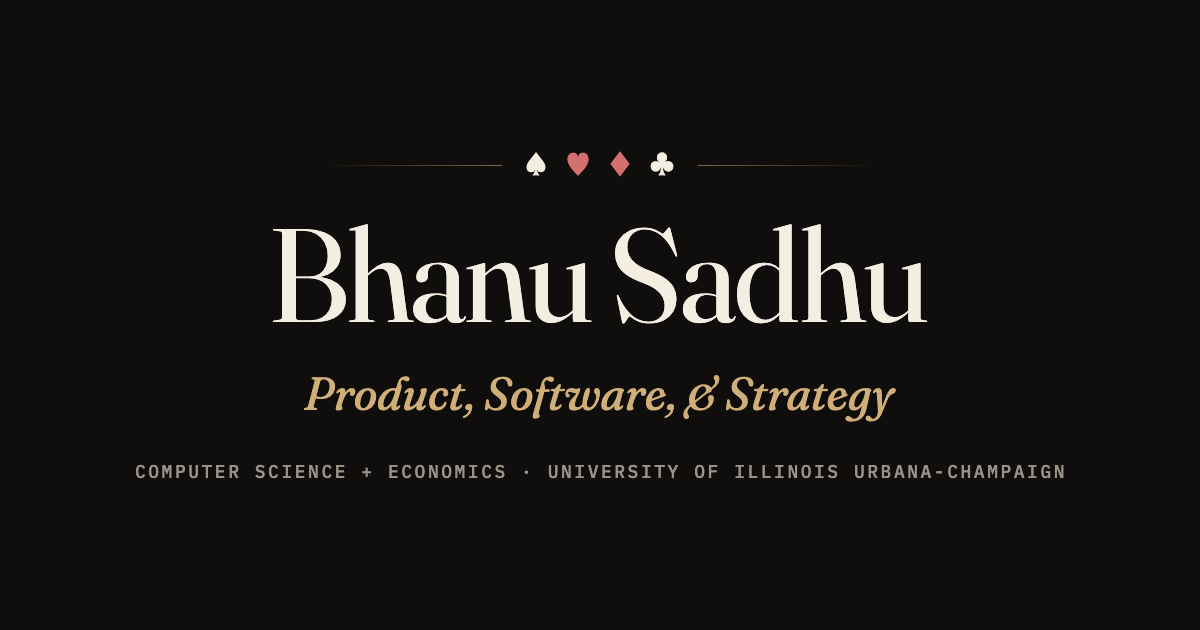
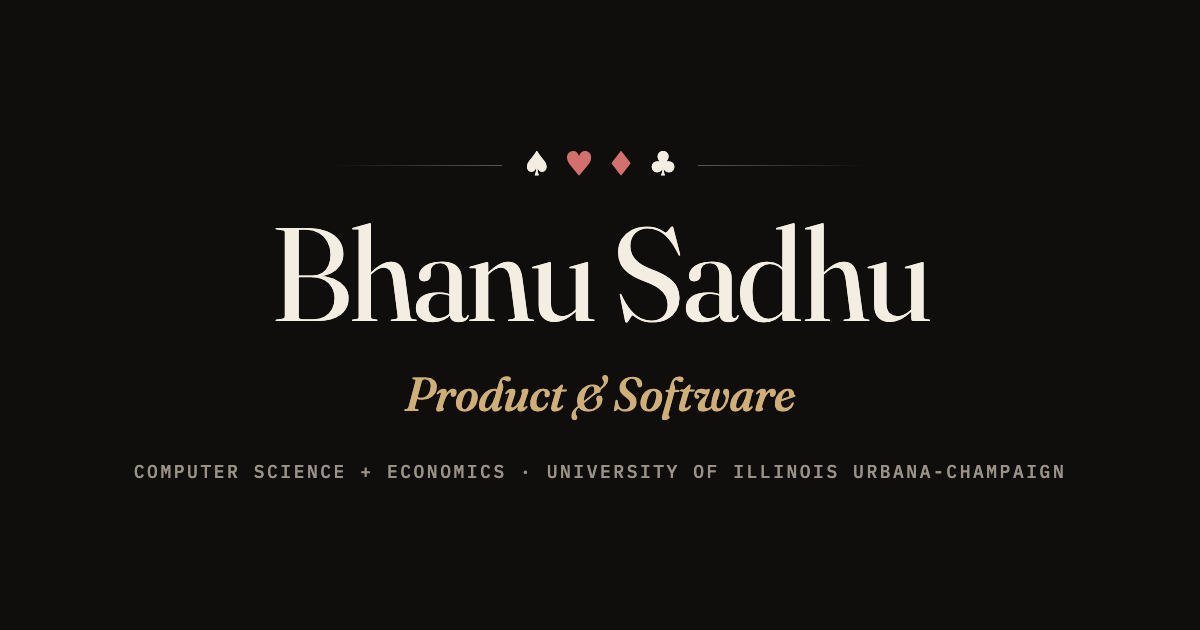
Recruit for Product & Software, equal weight; drop Strategy as a track
Tab title, social meta and preview image, hero seeking line (both words lit), contact sentence and lede, the spread's note, and the skills label. Real job titles are unchanged.

diff --git a/src/data/site.ts b/src/data/site.ts
@@ -1,14 +1,14 @@
-/** The short form, split so the hero's seeking line can mark Product as the lead. */
-const interests = { lead: 'Product', rest: 'Software, & Strategy' }
+/** The two tracks, equal weight: the hero's seeking line marks both. */
+const interests = ['Product', 'Software'] as const
 
 export const site = {
   name: 'Bhanu Prakash Sadhu',
   shortName: 'Bhanu Sadhu',
   /** The short form: tab title, social preview, the hero's seeking line, and the availability sentence. */
-  title: `${interests.lead}, ${interests.rest}`,
-  browserTitle: `Bhanu Sadhu | ${interests.lead}, ${interests.rest}`,
+  title: interests.join(' & '),
+  browserTitle: `Bhanu Sadhu | ${interests.join(' & ')}`,
   description:
-    'Bhanu Sadhu studies Computer Science + Economics at the University of Illinois Urbana-Champaign and builds products across software, digital health, and AI. Explore his projects, experience, and interests.',
+    'Bhanu Sadhu studies Computer Science + Economics at the University of Illinois Urbana-Champaign and builds products and software across digital health, AI, and consumer apps. Explore his projects, experience, and interests.',
   location: 'Hawthorn Woods, Illinois',
   /** The short form, used only in the hero eyebrow and the list view's About line. Everywhere else spells the school out. */
   schoolShort: 'UIUC',
@@ -28,14 +28,14 @@ export const site = {
     alt: 'Bhanu in a charcoal suit and white shirt against a plain gray backdrop.',
   },
   tagline:
-    "I turn ideas into products and research into decisions. I'm studying Computer Science + Economics at the University of Illinois Urbana-Champaign, with a focus on product management and building useful software.",
+    "I turn ideas into products and research into decisions. I'm studying Computer Science + Economics at the University of Illinois Urbana-Champaign, with a focus on product management and software engineering.",
   about: [
-    "I'm Bhanu, a Computer Science + Economics student at the University of Illinois Urbana-Champaign, with minors in Statistics and Advertising. My experience spans digital health, AI adoption, consulting, and building products of my own. I enjoy understanding what people need, deciding what matters most, and turning those decisions into something they can use.",
+    "I'm Bhanu, a Computer Science + Economics student at the University of Illinois Urbana-Champaign, with minors in Statistics and Advertising. My experience spans digital health, AI adoption, consulting, and building products of my own. I enjoy understanding what people need, deciding what matters most, and building the software that delivers it.",
     "Outside of work, I'm usually playing cards with friends, trying a restaurant, collecting fragrances, or watching a movie.",
   ],
   workingStyle: 'Understand the problem, make thoughtful tradeoffs, and improve through feedback.',
   /** The short form, as a sentence: the contact section and the list view. */
-  availability: `I'm seeking Summer 2027 internships in ${interests.lead}, ${interests.rest}.`,
+  availability: `I'm seeking Summer 2027 internships in ${interests.join(' & ')}.`,
   email: 'sadhubhanu07@gmail.com',
   phone: '224-428-4480',
   phoneHref: 'tel:+12244284480',
@@ -45,7 +45,7 @@ export const site = {
   githubHandle: 'bhnsadhu',
   /** Drop the real PDF at public/Bhanu_Sadhu_Resume.pdf. */
   resume: '/Bhanu_Sadhu_Resume.pdf',
-  contactLede: "Have a product internship, a project idea, or something interesting to build? I'd love to hear from you.",
+  contactLede: "Have a product or software internship, a project idea, or something interesting to build? I'd love to hear from you.",
   copyrightYear: '2026',
   signoff: 'Shuffled, not stirred.',
   /** Static on purpose. Update by hand when content changes. */

diff --git a/index.html b/index.html
@@ -5,21 +5,21 @@
     <meta name="viewport" content="width=device-width, initial-scale=1, viewport-fit=cover" />
     <meta name="theme-color" content="#100E0C" />
     <meta name="color-scheme" content="dark light" />
-    <meta name="description" content="Bhanu Sadhu studies Computer Science + Economics at the University of Illinois Urbana-Champaign and builds products across software, digital health, and AI. Explore his projects, experience, and interests." />
+    <meta name="description" content="Bhanu Sadhu studies Computer Science + Economics at the University of Illinois Urbana-Champaign and builds products and software across digital health, AI, and consumer apps. Explore his projects, experience, and interests." />
     <meta property="og:type" content="website" />
     <meta property="og:url" content="https://bhanusadhu.com/" />
     <!-- No-break spaces around the bar: iMessage drops a title part that matches
-         the domain, so plain spaces would leave only "Product, Software, & Strategy". -->
-    <meta property="og:title" content="Bhanu Sadhu&#160;|&#160;Product, Software, &amp; Strategy" />
-    <meta property="og:description" content="Bhanu Sadhu studies Computer Science + Economics at the University of Illinois Urbana-Champaign and builds products across software, digital health, and AI. Explore his projects, experience, and interests." />
+         the domain, so plain spaces would leave only "Product & Software". -->
+    <meta property="og:title" content="Bhanu Sadhu&#160;|&#160;Product &amp; Software" />
+    <meta property="og:description" content="Bhanu Sadhu studies Computer Science + Economics at the University of Illinois Urbana-Champaign and builds products and software across digital health, AI, and consumer apps. Explore his projects, experience, and interests." />
     <meta property="og:image" content="https://bhanusadhu.com/og.png" />
     <meta property="og:image:width" content="1200" />
     <meta property="og:image:height" content="630" />
     <meta name="twitter:card" content="summary_large_image" />
-    <meta name="twitter:title" content="Bhanu Sadhu&#160;|&#160;Product, Software, &amp; Strategy" />
-    <meta name="twitter:description" content="Bhanu Sadhu studies Computer Science + Economics at the University of Illinois Urbana-Champaign and builds products across software, digital health, and AI. Explore his projects, experience, and interests." />
+    <meta name="twitter:title" content="Bhanu Sadhu&#160;|&#160;Product &amp; Software" />
+    <meta name="twitter:description" content="Bhanu Sadhu studies Computer Science + Economics at the University of Illinois Urbana-Champaign and builds products and software across digital health, AI, and consumer apps. Explore his projects, experience, and interests." />
     <meta name="twitter:image" content="https://bhanusadhu.com/og.png" />
-    <title>Bhanu Sadhu | Product, Software, &amp; Strategy</title>
+    <title>Bhanu Sadhu | Product &amp; Software</title>
     <link rel="icon" href="/favicon.svg" type="image/svg+xml" />
     <link rel="preconnect" href="https://fonts.googleapis.com" />
     <link rel="preconnect" href="https://fonts.gstatic.com" crossorigin />

diff --git a/src/pages/ListView.tsx b/src/pages/ListView.tsx
@@ -109,7 +109,8 @@ export function ListView() {
               </div>
               <p className="hero__seeking mono mono--sm">
                 <span className="hero__seeking-lead">Seeking {site.seeking}</span> in{' '}
-                <span className="hero__seeking-focus">{site.interests.lead}</span>, {site.interests.rest}
+                <span className="hero__seeking-focus">{site.interests[0]}</span> &amp;{' '}
+                <span className="hero__seeking-focus">{site.interests[1]}</span>
               </p>
             </div>
             <HeroPhoto />

diff --git a/src/sections/Hand.tsx b/src/sections/Hand.tsx
@@ -38,7 +38,8 @@ export function Hand() {
             </div>
             <p className="hero__seeking mono mono--sm">
               <span className="hero__seeking-lead">Seeking {site.seeking}</span> in{' '}
-              <span className="hero__seeking-focus">{site.interests.lead}</span>, {site.interests.rest}
+              <span className="hero__seeking-focus">{site.interests[0]}</span> &amp;{' '}
+              <span className="hero__seeking-focus">{site.interests[1]}</span>
             </p>
           </div>
           <HeroPhoto />

diff --git a/src/data/skills.ts b/src/data/skills.ts
@@ -1,14 +1,14 @@
 import type { SkillStack } from './types'
 
 /**
- * The chips: one stack per category, product and strategy first.
+ * The chips: one stack per category, product first, then software.
  * Stack height is a count, not a rating. No tool here is claimed for
  * any one project.
  */
 export const skills: SkillStack[] = [
   {
     id: 'product',
-    label: 'Product, Strategy & Delivery',
+    label: 'Product & Delivery',
     skills: [
       'Product strategy',
       'Requirements gathering',

diff --git a/src/data/sections.ts b/src/data/sections.ts
@@ -4,7 +4,7 @@
  */
 export const sectionNotes = {
   spread:
-    'Working across product, technology, and strategy to understand problems and turn research into useful next steps.',
+    'Working across product and software to understand problems, build what matters, and turn research into useful next steps.',
   face:
     'Bringing people together, helping teams find direction, and making things happen across campus. A different kind of strong hand.',
   fan:

diff --git a/src/styles/sections.css b/src/styles/sections.css
@@ -329,7 +329,7 @@
   line-height: 0.98;
 }
 
-/* Seeking line: when, then what, in one sentence. Product is marked as the lead. */
+/* Seeking line: when, then what, in one sentence. Product and Software are marked equally. */
 .hero__seeking {
   color: var(--gray);
 }

diff --git a/CLAUDE.md b/CLAUDE.md
@@ -210,11 +210,14 @@ contact form, deployed on Vercel. Desktop first; phones get a stacked layout.
   "UIUC" (`site.schoolShort`) to stay short.
 - Fixed wording in fixed places. The hero eyebrow reads "Your hand ·
   UIUC · Computer Science + Economics · Builder & breaker of products"
-  (`site.schoolShort`, `site.major`, `site.focus`), no location; the list view's header says the same. Every list of the three is "Product, Software, &
-  Strategy" (`site.title`, split as `site.interests`): tab title, social
-  meta, the hero's seeking line with Product highlighted, and the
-  `site.availability` sentence in the contact section and the list
-  view. No long form, no other role list.
+  (`site.schoolShort`, `site.major`, `site.focus`), no location; the list view's header says the same. He is recruiting for two
+  tracks with equal weight, and every mention is "Product & Software"
+  (`site.title`, from `site.interests`): tab title, social meta, the
+  social preview image (`public/og.png`), the hero's seeking line with
+  both words highlighted alike, and the `site.availability` sentence in
+  the contact section and the list view. Never "Strategy" as a track (his
+  real titles, such as Strategy Consultant, stay as they are), never one
+  track ranked above the other, no long form, no other role list.
 - The card view and the list view say the same things in the same words.
   Shared text lives in `src/data`, never inline in one view.
 - Confidential clients stay unnamed in text, slugs, metadata, and labels.

diff --git a/README.md b/README.md
@@ -12,7 +12,7 @@ My experience, projects, and interests, dealt as interactive cards. Check it out
 
 A Computer Science + Economics student at the University of Illinois Urbana-Champaign, with minors in Statistics and Advertising. I build products and then try to break them.
 
-**Recruiting for Summer 2027 internships in Product, Software, & Strategy.**
+**Recruiting for Summer 2027 internships in Product & Software.**
 
 ---
 
